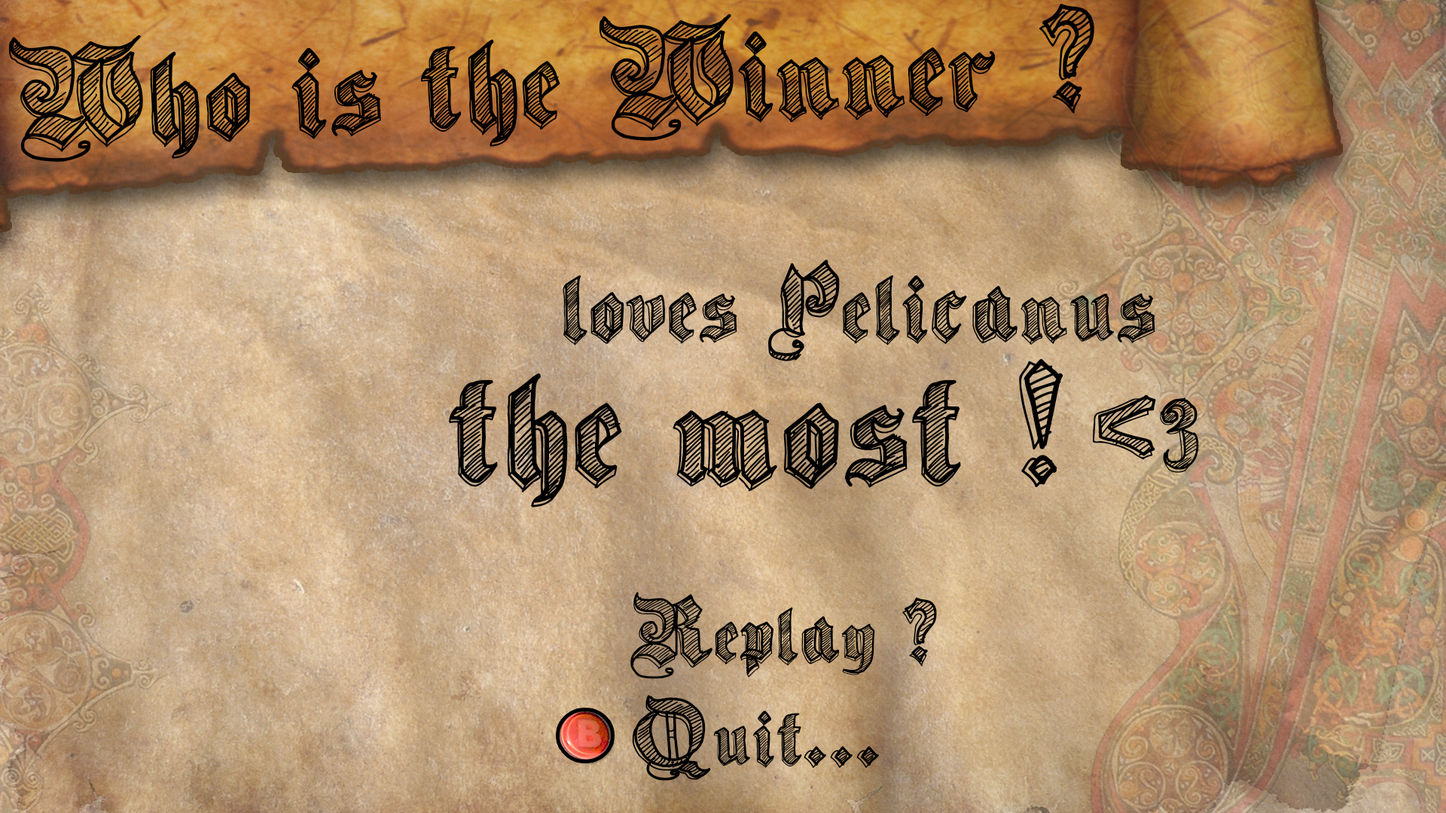
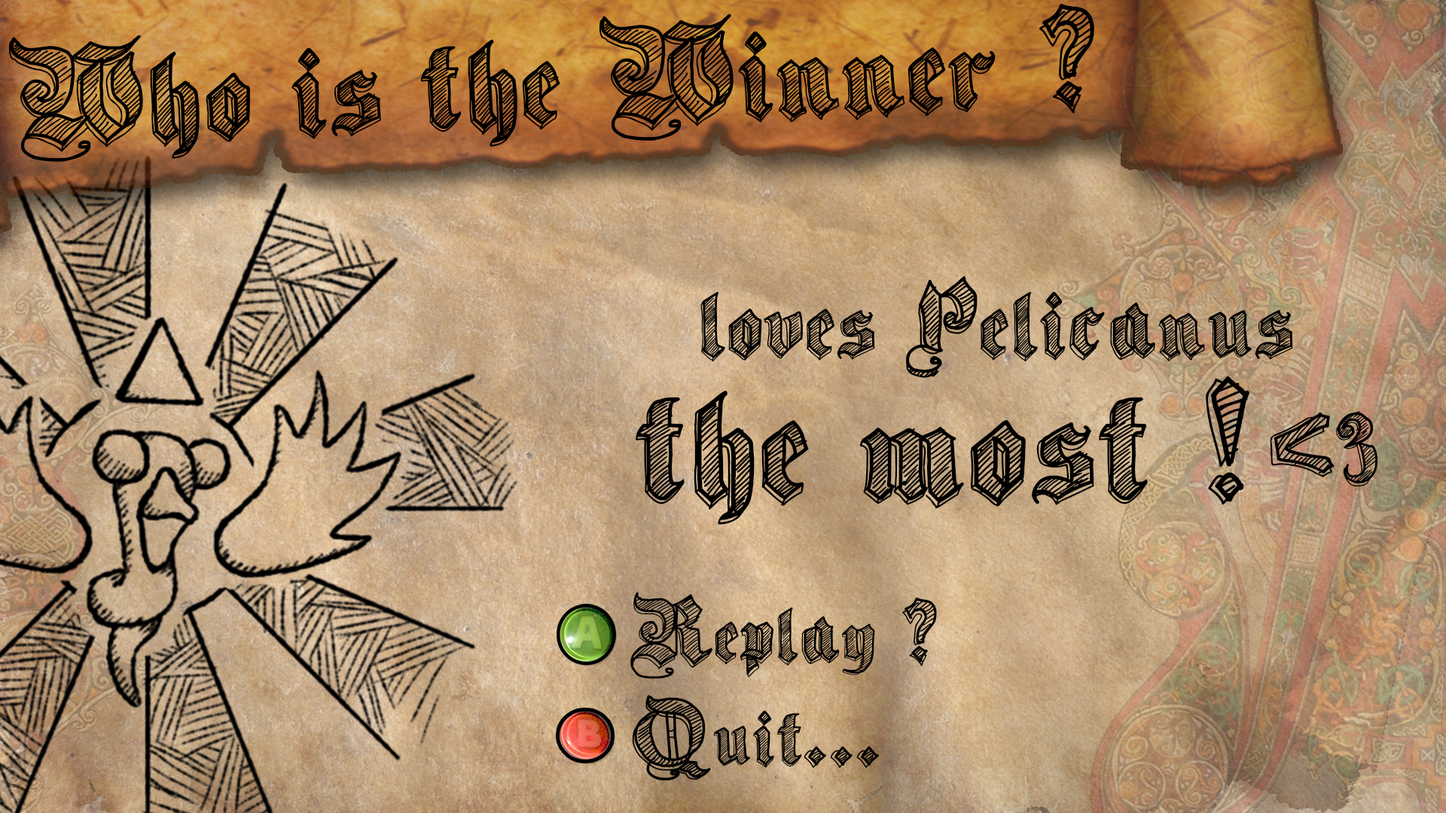
Endscreen

Changed region(s): [[0.0, 0.1833, 0.9688, 1.0], [0.375, 0.7333, 0.4375, 0.825]]

diff --git a/Assets/Scripts/Endscript.cs b/Assets/Scripts/Endscript.cs
@@ -1,0 +1,41 @@
+using UnityEngine;
+using System.Collections;
+using System.Collections.Generic;
+using UnityEngine.UI;
+using System.Linq;
+using XInputDotNetPure;
+
+public class Endscript : MonoBehaviour {
+	GameManager gm;
+
+	// Use this for initialization
+	void Start () {
+		gm = GameManager.GetInstance ();
+		PlayerIndex winner = gm.alive.ElementAt(0);
+
+		CanvasGroup Canvas_winner = transform.Find("Player"+winner.ToString()).GetComponent<CanvasGroup>();
+		Canvas_winner.alpha = 1;
+	}
+	GamePadState[]prevStates = new GamePadState[4];
+	GamePadState[] playerStates = new GamePadState[4];
+
+	// Update is called once per frame
+	void Update () {
+	
+		for (int i = 0; i < playerStates.Length; i++)
+		{
+			prevStates[i] = playerStates[i];
+			playerStates[i] = GamePad.GetState((PlayerIndex)i);
+			
+			if (prevStates[i].Buttons.A == ButtonState.Released && playerStates[i].Buttons.A == ButtonState.Pressed)
+			{
+				gm.StartRandomLevel(gm.players);
+			}
+			if (prevStates[i].Buttons.B == ButtonState.Released && playerStates[i].Buttons.B == ButtonState.Pressed)
+			{
+				Application.LoadLevel (0);
+			}
+		}
+		
+	}
+}

diff --git a/Assets/Scripts/Soundscript.cs b/Assets/Scripts/Soundscript.cs
@@ -23,7 +23,7 @@ public class Soundscript : MonoBehaviour {
 	//Joue un son
 	public void Play_sound (string snd_name)  
 	{															
-		sounds_audio_source_as.volume = 1;
+		sounds_audio_source_as.volume = 1f;
 
 		if (snd_name == "Clap")
 		{
